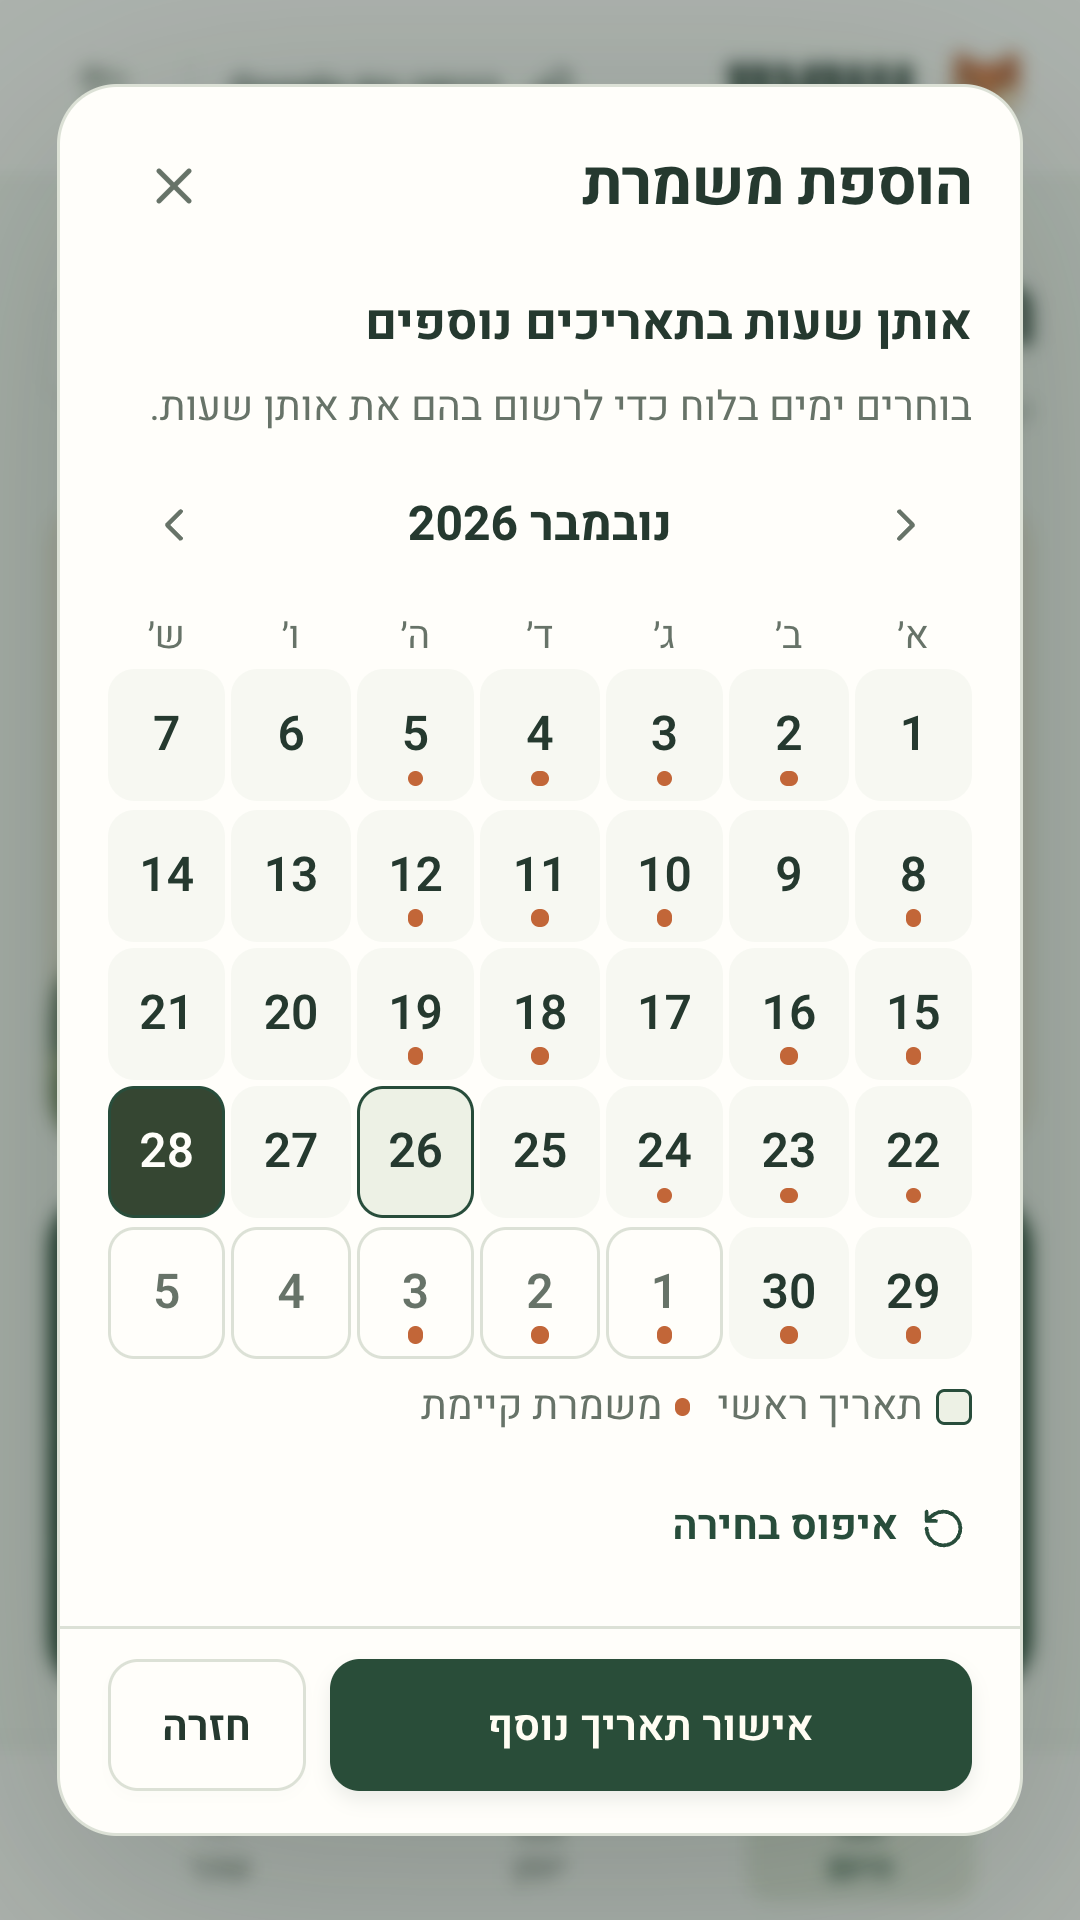
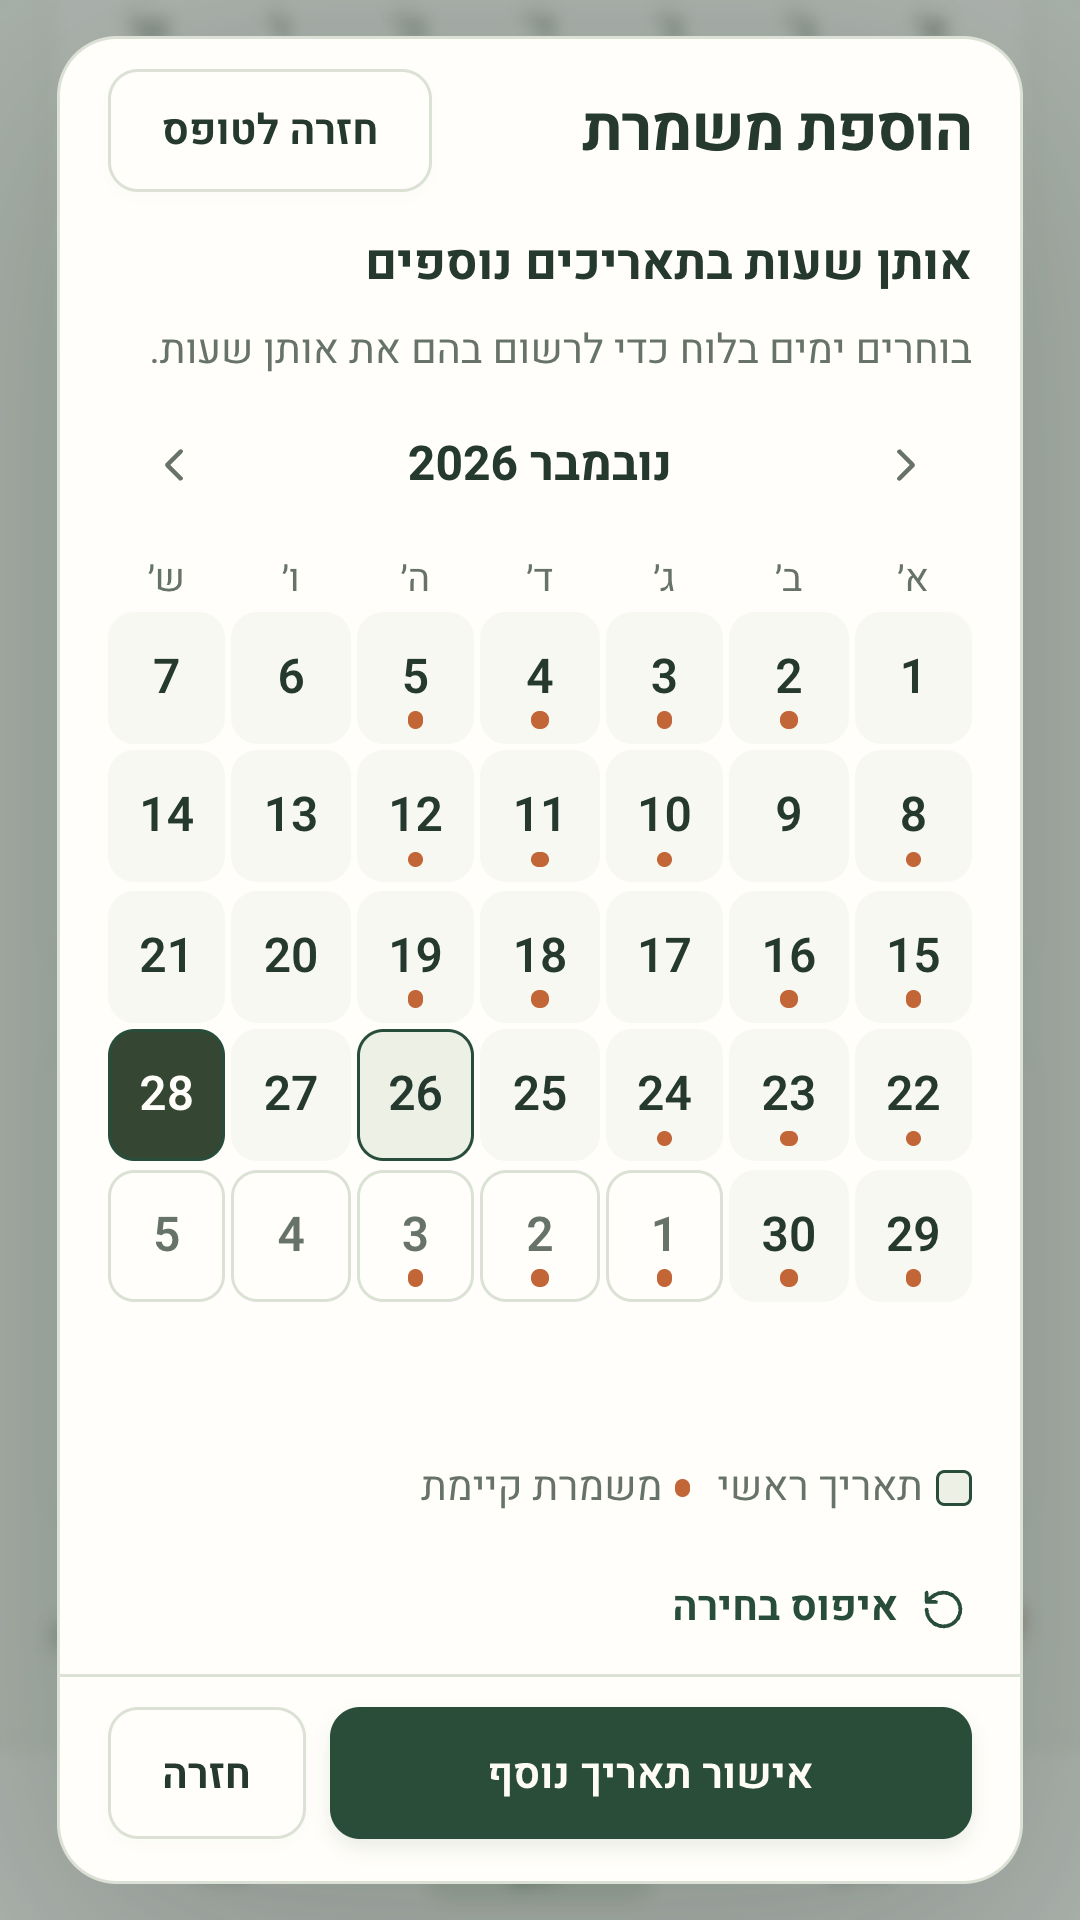
Keep navigation, date picking and payroll forms stable

diff --git a/src/components/Settings.tsx b/src/components/Settings.tsx
@@ -67,7 +67,7 @@ function DayField({ title, name, value }: { title: string; name: string; value: 
   return (
     <label className="prefs-field">
       {title}
-      <select name={name} defaultValue={value}>
+      <select key={value} name={name} defaultValue={value}>
         {days.map((day, index) => (
           <option key={day} value={index}>
             {day}
@@ -95,6 +95,7 @@ function ClockField({
       <input
         dir="ltr"
         type="text"
+        key={value}
         name={name}
         defaultValue={value}
         maxLength={5}
@@ -121,16 +122,14 @@ type HolidayRange = { id: string; start: string; end: string }
 type SavePay = (pay: PaySettings, section: string, message: string) => Promise<boolean>
 
 function TimeSettings({ pay, busy, save }: { pay: PaySettings; busy: boolean; save: SavePay }) {
-  const [holidays, setHolidays] = useState<HolidayDate[]>(() =>
-    (pay.holidays ?? []).map((date, index) => ({ id: String(index), date })),
-  )
-  const [ranges, setRanges] = useState<HolidayRange[]>(() =>
-    (pay.holidayWindows ?? []).map((range, index) => ({
-      id: String(index),
-      start: dateTimeValue(range.start),
-      end: dateTimeValue(range.end),
-    })),
-  )
+  const [holidayDraft, setHolidays] = useState<HolidayDate[] | null>(null)
+  const [rangeDraft, setRanges] = useState<HolidayRange[] | null>(null)
+  const holidays = holidayDraft ?? (pay.holidays ?? []).map((date, index) => ({ id: String(index), date }))
+  const ranges = rangeDraft ?? (pay.holidayWindows ?? []).map((range, index) => ({
+    id: String(index),
+    start: dateTimeValue(range.start),
+    end: dateTimeValue(range.end),
+  }))
   const [error, setError] = useState('')
   async function submit(event: FormEvent<HTMLFormElement>) {
     event.preventDefault()
@@ -150,7 +149,7 @@ function TimeSettings({ pay, busy, save }: { pay: PaySettings; busy: boolean; sa
       })
       const newHolidays = [...new Set(holidays.map((row) => row.date))].sort()
       newHolidays.forEach(dateMs)
-      await save(
+      const saved = await save(
         {
           ...pay,
           restStartDay,
@@ -165,6 +164,10 @@ function TimeSettings({ pay, busy, save }: { pay: PaySettings; busy: boolean; sa
         'time',
         'הגדרות שבוע העבודה נשמרו',
       )
+      if (saved) {
+        setHolidays(null)
+        setRanges(null)
+      }
     } catch (reason) {
       setError(reason instanceof Error ? reason.message : 'יש לבדוק את הגדרות השעות.')
     }
@@ -192,7 +195,7 @@ function TimeSettings({ pay, busy, save }: { pay: PaySettings; busy: boolean; sa
           <div className="prefs-grid">
             <label className="prefs-field">
               שעות רגילות בערב חג
-              <select name="holidayEveHours" defaultValue={pay.holidayEveHours ?? 7}>
+              <select key={pay.holidayEveHours} name="holidayEveHours" defaultValue={pay.holidayEveHours ?? 7}>
                 <option value={7}>7 שעות</option>
                 <option value={8}>8 שעות</option>
               </select>
@@ -491,7 +494,7 @@ export function Settings({
           </section>
           <section>
             <h3>שעות ותאריכים מיוחדים</h3>
-            <TimeSettings key={JSON.stringify(profile.pay)} pay={profile.pay} busy={busy} save={savePay} />
+            <TimeSettings pay={profile.pay} busy={busy} save={savePay} />
             {feedback('time')}
           </section>
         </div>

diff --git a/src/App.tsx b/src/App.tsx
@@ -1,4 +1,4 @@
-import { Fragment, lazy, Suspense, useCallback, useEffect, useMemo, useRef, useState } from 'react'
+import { Fragment, useCallback, useEffect, useLayoutEffect, useMemo, useRef, useState } from 'react'
 import { onAuthStateChanged, type User } from 'firebase/auth'
 import {
   ArrowLeft,
@@ -33,10 +33,9 @@ import { SleepingFox } from './components/SleepingFox'
 import { SalaryMonthPicker } from './components/SalaryMonthPicker'
 import { TimeRange } from './components/TimeRange'
 import { ShiftEditor } from './components/ShiftEditor'
-const Calendar = lazy(() => import('./components/Calendar').then((m) => ({ default: m.Calendar })))
-const Onboarding = lazy(() => import('./components/Settings').then((m) => ({ default: m.Onboarding })))
-const Settings = lazy(() => import('./components/Settings').then((m) => ({ default: m.Settings })))
-const Salary = lazy(() => import('./components/Salary').then((m) => ({ default: m.Salary })))
+import { Calendar } from './components/Calendar'
+import { Onboarding, Settings } from './components/Settings'
+import { Salary } from './components/Salary'
 import { Dialog } from './components/Dialog'
 
 type Page = 'today' | 'calendar' | 'salary' | 'settings'
@@ -77,9 +76,7 @@ export default function App() {
   const [identity, setIdentity] = useState<{ user: User | null } | null>(null)
   useEffect(() => onAuthStateChanged(auth, (user) => setIdentity({ user })), [])
   return identity ? (
-    <Suspense fallback={<Loading />}>
-      <WorkspaceApp key={identity.user?.uid || 'demo'} user={identity.user} />
-    </Suspense>
+    <WorkspaceApp key={identity.user?.uid || 'demo'} user={identity.user} />
   ) : (
     <Loading />
   )
@@ -118,7 +115,11 @@ function WorkspaceApp({ user }: { user: User | null }) {
     return subscribeWorkspace(uid, setWorkspace, (e) => setLoadError(errText(e)))
   }, [uid, retry])
   useEffect(() => {
-    const sync = () => setPage(fromHash())
+    const sync = () => {
+      setPage(fromHash())
+      setDetail(null)
+      setEditor(null)
+    }
     window.addEventListener('hashchange', sync)
     return () => window.removeEventListener('hashchange', sync)
   }, [])
@@ -149,12 +150,14 @@ function WorkspaceApp({ user }: { user: User | null }) {
     media.addEventListener('change', apply)
     return () => media.removeEventListener('change', apply)
   }, [theme])
+  useLayoutEffect(() => {
+    window.scrollTo({ top: 0 })
+  }, [page])
   const navigate = (next: Page) => {
     location.hash = next
     setPage(next)
     setDetail(null)
     setEditor(null)
-    window.scrollTo({ top: 0 })
   }
   const goCalendar = (date: string) => {
     setDay(date)

diff --git a/src/components/Salary.tsx b/src/components/Salary.tsx
@@ -78,6 +78,7 @@ function NumberField({
       <span>{title}</span>
       <input
         type="number"
+        key={value ?? ''}
         name={name}
         min={min ?? undefined}
         max={max}
@@ -102,7 +103,8 @@ export function PayrollSettings({
   onProfileChange,
 }: Pick<SalaryProps, 'month' | 'profile' | 'onProfileChange'>) {
   const monthData = profile.months?.[month] || {}
-  const [usePrior, setUsePrior] = useState(Boolean(monthData.prior))
+  const [priorDraft, setUsePrior] = useState<boolean | null>(null)
+  const usePrior = priorDraft ?? Boolean(monthData.prior)
   const [saving, setSaving] = useState(false)
   const [status, setStatus] = useState('')
   async function submit(event: FormEvent<HTMLFormElement>) {
@@ -131,6 +133,7 @@ export function PayrollSettings({
         capPension: data.has('capPension'),
         months: { ...profile.months, [month]: settings },
       })
+      setUsePrior(null)
       setStatus('פרטי השכר נשמרו')
     } catch {
       setStatus('שמירת פרטי השכר נכשלה. אפשר לנסות שוב.')
@@ -139,7 +142,7 @@ export function PayrollSettings({
     }
   }
   return (
-    <form key={JSON.stringify(profile)} className="salary-form" onSubmit={submit}>
+    <form className="salary-form" onSubmit={submit}>
       <p className="salary-help">
         שאלון השכר בהגדרות משמש לאומדן הראשוני. אם בתלוש מופיעים ערכים אחרים, אפשר לעדכן אותם כאן לכל החודשים.
       </p>
@@ -154,7 +157,7 @@ export function PayrollSettings({
         />
       </div>
       <label className="salary-check">
-        <input type="checkbox" name="capPension" defaultChecked={profile.capPension} /> החלת תקרת פנסיית חובה
+        <input key={String(profile.capPension)} type="checkbox" name="capPension" defaultChecked={profile.capPension} /> החלת תקרת פנסיית חובה
         (13,769 ₪ בחודש בשנת 2026)
       </label>
       <details className="salary-inner-details">

diff --git a/src/components/salary.css b/src/components/salary.css
@@ -284,6 +284,9 @@
   border: 1px solid transparent;
   color: white;
 }
+:root[data-theme='dark'] .salary-primary {
+  color: var(--paper);
+}
 .salary-secondary {
   background: var(--card, white);
   border: 1px solid var(--line, #c9d0c5);

diff --git a/src/components/shift-dates-picker.css b/src/components/shift-dates-picker.css
@@ -33,6 +33,7 @@
 .se-month-days {
   display: grid;
   grid-template-columns: repeat(7, minmax(0, 1fr));
+  grid-template-rows: auto repeat(6, minmax(44px, auto));
   align-items: center;
   gap: 0.15rem;
   text-align: center;
